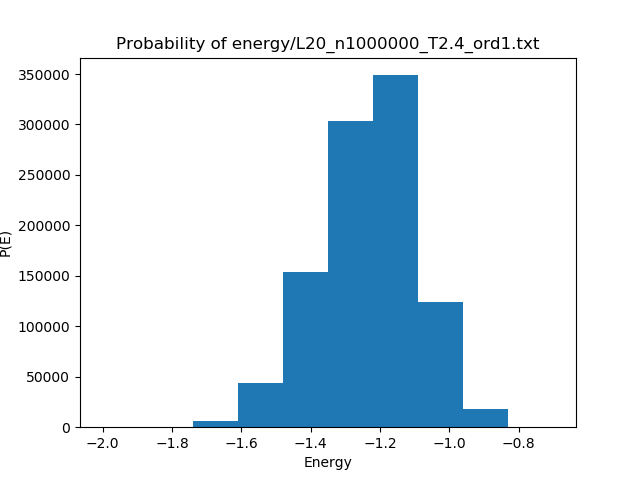
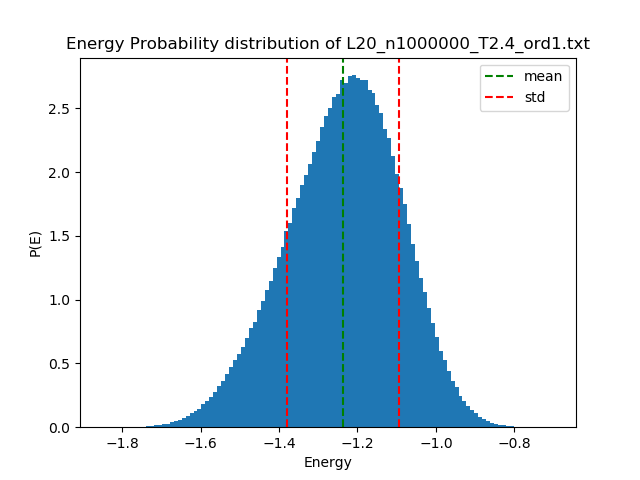
probability distributions done
also removed all decimal-points i found, so LaXeX won't be angry

diff --git a/Project 4/program/probability_distribution_new.py b/Project 4/program/probability_distribution_new.py
@@ -1,0 +1,74 @@
+import sys
+import numpy as np
+from collections import Counter
+import matplotlib.pyplot as plt
+
+file = sys.argv[1]
+
+energy = []
+magnet = []
+
+# Energy
+with open("energy/" + file) as infile: # Reads in the energy values
+    infile.readline()
+    lines = infile.readlines()
+    for line in lines:
+        words = line.split()
+        energy.append(float(words[0]))
+
+# Magnetization
+with open("magnet/" + file) as infile: # Reads in the energy values
+    infile.readline()
+    lines = infile.readlines()
+    for line in lines:
+        words = line.split()
+        magnet.append(float(words[0]))
+
+
+
+energy = np.array(energy)
+estd = energy.std()
+emean = energy.mean()
+evar = np.var(energy)
+
+magnet = np.array(magnet)
+mstd = magnet.std()
+mmean = magnet.mean()
+mvar = np.var(magnet)
+
+
+"""
+plt.axhline(y=emean-estd, color="r")
+plt.axhline(y=emean, color="g", label="mean")
+plt.axhline(y=emean+estd, color="r", label="std")
+plt.plot(energy)
+plt.title("Energy plot of " + sys.argv[1])
+plt.xlabel("Energy")
+plt.ylabel("P(E)")
+plt.grid()
+plt.show()
+"""
+# Energy
+plt.axvline(emean-estd, linestyle="--", color="r")
+plt.axvline(emean, linestyle="--", color="g", label="mean")
+plt.axvline(emean+estd, linestyle="--", color="r", label="std")
+plt.hist(energy[10000:], bins=114, density=True, stacked=True) # Tried various bins, but this gave the fewest artifacts
+plt.title("Energy Probability distribution of " + sys.argv[1])
+plt.xlabel("Energy")
+plt.ylabel("P(E)")
+plt.legend()
+plt.savefig("../img/energyhistogram_" + sys.argv[1][:-4] + ".png")
+plt.show()
+
+
+# Magnetization
+plt.axvline(mmean-mstd, linestyle="--", color="r")
+plt.axvline(mmean, linestyle="--", color="g", label="mean")
+plt.axvline(mmean+mstd, linestyle="--", color="r", label="std")
+plt.hist(magnet[10000:], bins=126, density=True, stacked=True) # Tried various bins, but this gave the fewest artifacts
+plt.title("Magnetization Probability distribution of " + sys.argv[1])
+plt.xlabel("Magnetization")
+plt.ylabel("P(E)")
+plt.legend()
+plt.savefig("../img/magnethistogram_" + sys.argv[1][:-4] + ".png")
+plt.show()
